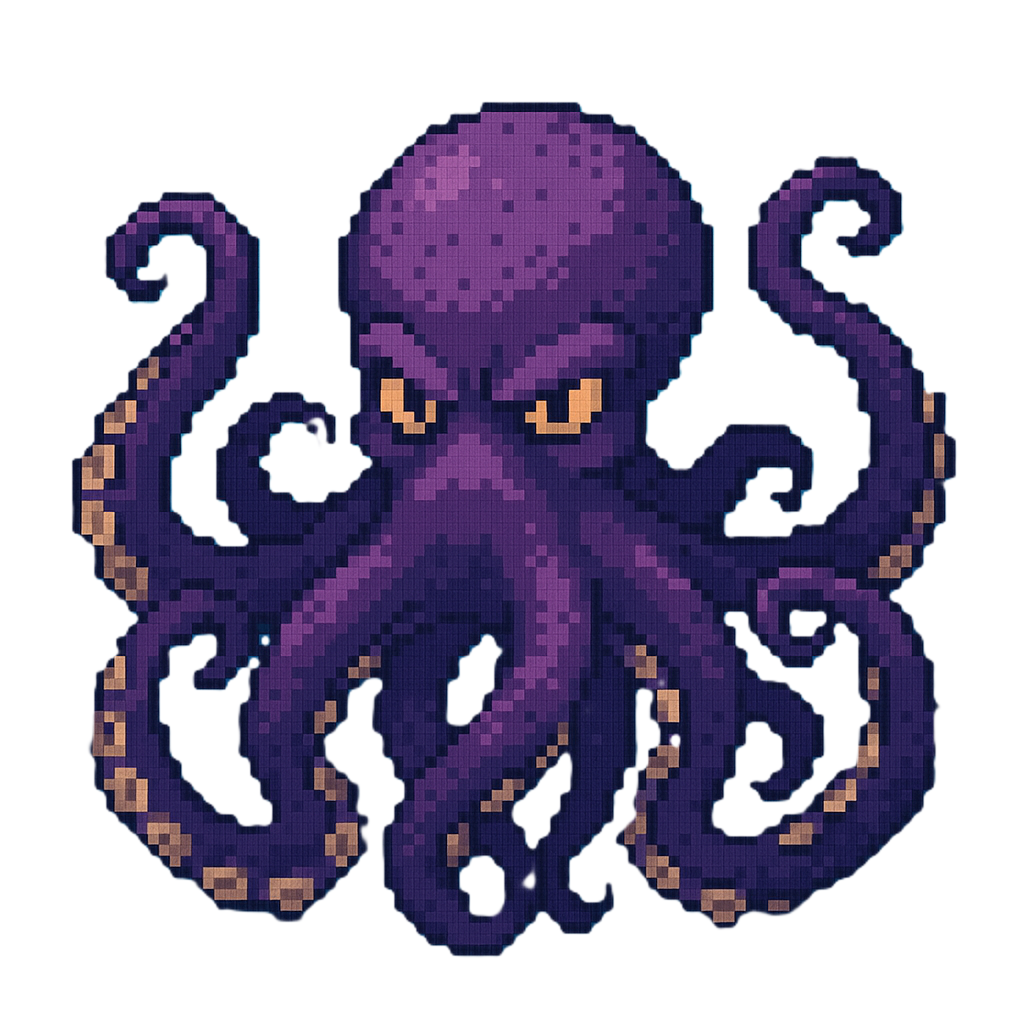
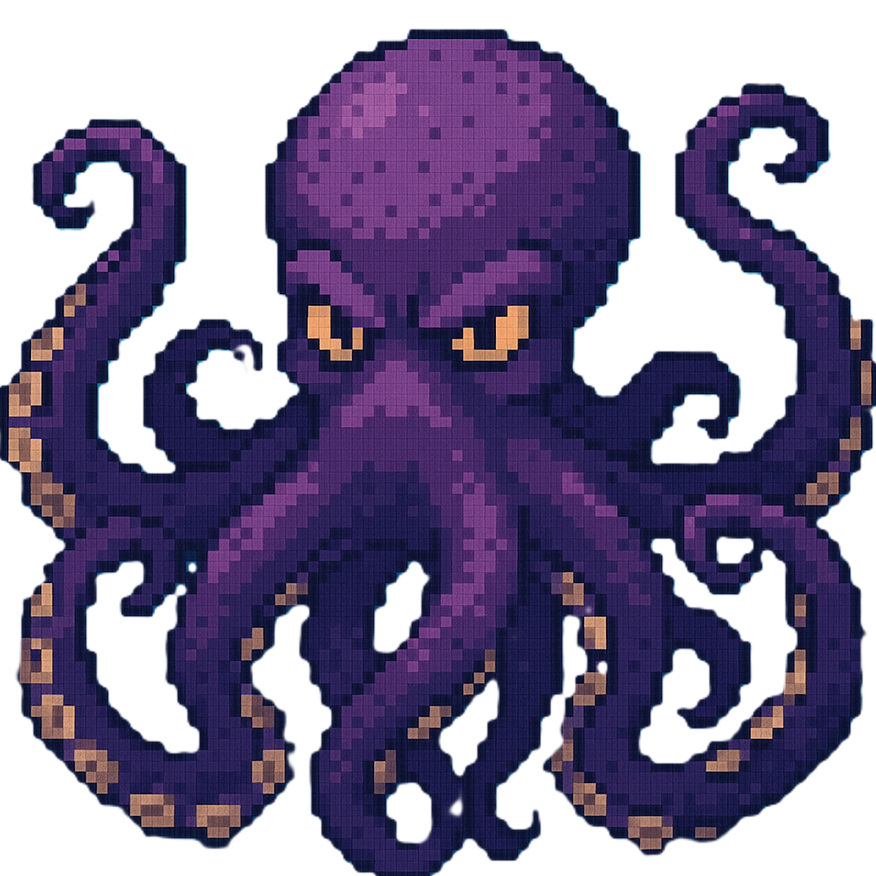
Оновлено розміри текстур для боса та його щупалець: змінено ширину та висоту для BossMinion, OctopusBoss та OctopusInk, а також оновлено текстуру чорнила.

diff --git a/core/src/main/java/com/naukma/levels/OctopusInk.java b/core/src/main/java/com/naukma/levels/OctopusInk.java
@@ -11,9 +11,9 @@ public class OctopusInk {
     private boolean active = true;
 
     public OctopusInk(float startX, float startY, float targetY) {
-        inkTexture = new Texture(Gdx.files.internal("ink.png")); // Додайте ink.png у assets
-        width = 40;
-        height = 40;
+        inkTexture = new Texture(Gdx.files.internal("ink2.png"));
+        width = 80;
+        height = 80;
         x = startX;
         y = targetY - height/2;
         speed = 400f;
@@ -26,10 +26,14 @@ public class OctopusInk {
     }
 
     public void render(SpriteBatch batch) {
-        if (active) batch.draw(inkTexture, x, y, width, height);
+        if (active) {
+            batch.setColor(1f, 1f, 1f, 1f); // Повністю білі
+            batch.draw(inkTexture, x, y, width, height);
+            batch.setColor(1f, 1f, 1f, 1f); // Повертаємо стандартний колір
+        }
     }
 
     public Rectangle getRect() { return new Rectangle(x, y, width, height); }
     public boolean isActive() { return active; }
     public void setActive(boolean a) { active = a; }
-} 
+}

diff --git a/core/src/main/java/com/naukma/levels/OctopusBoss.java b/core/src/main/java/com/naukma/levels/OctopusBoss.java
@@ -30,8 +30,8 @@ public class OctopusBoss {
     public OctopusBoss() {
         bossTexture = new Texture(Gdx.files.internal("octopus.png"));
         eyeTexture = new Texture(Gdx.files.internal("boss_eye.png"));
-        width = 220 * 2;
-        height = 220 * 2;
+        width = Gdx.graphics.getHeight() * 0.45f;
+        height = Gdx.graphics.getHeight() * 0.45f;
         x = Gdx.graphics.getWidth() - width - 40;
         y = (Gdx.graphics.getHeight() - height) / 2;
         

diff --git a/core/src/main/java/com/naukma/levels/BossMinion.java b/core/src/main/java/com/naukma/levels/BossMinion.java
@@ -12,8 +12,8 @@ public class BossMinion {
 
     public BossMinion(float y) {
         minionTexture = new Texture(Gdx.files.internal("octopus.png"));
-        width = 60;
-        height = 60;
+        width = 70f;
+        height = 70f;
         x = Gdx.graphics.getWidth();
         this.y = y;
         speed = 250f;
